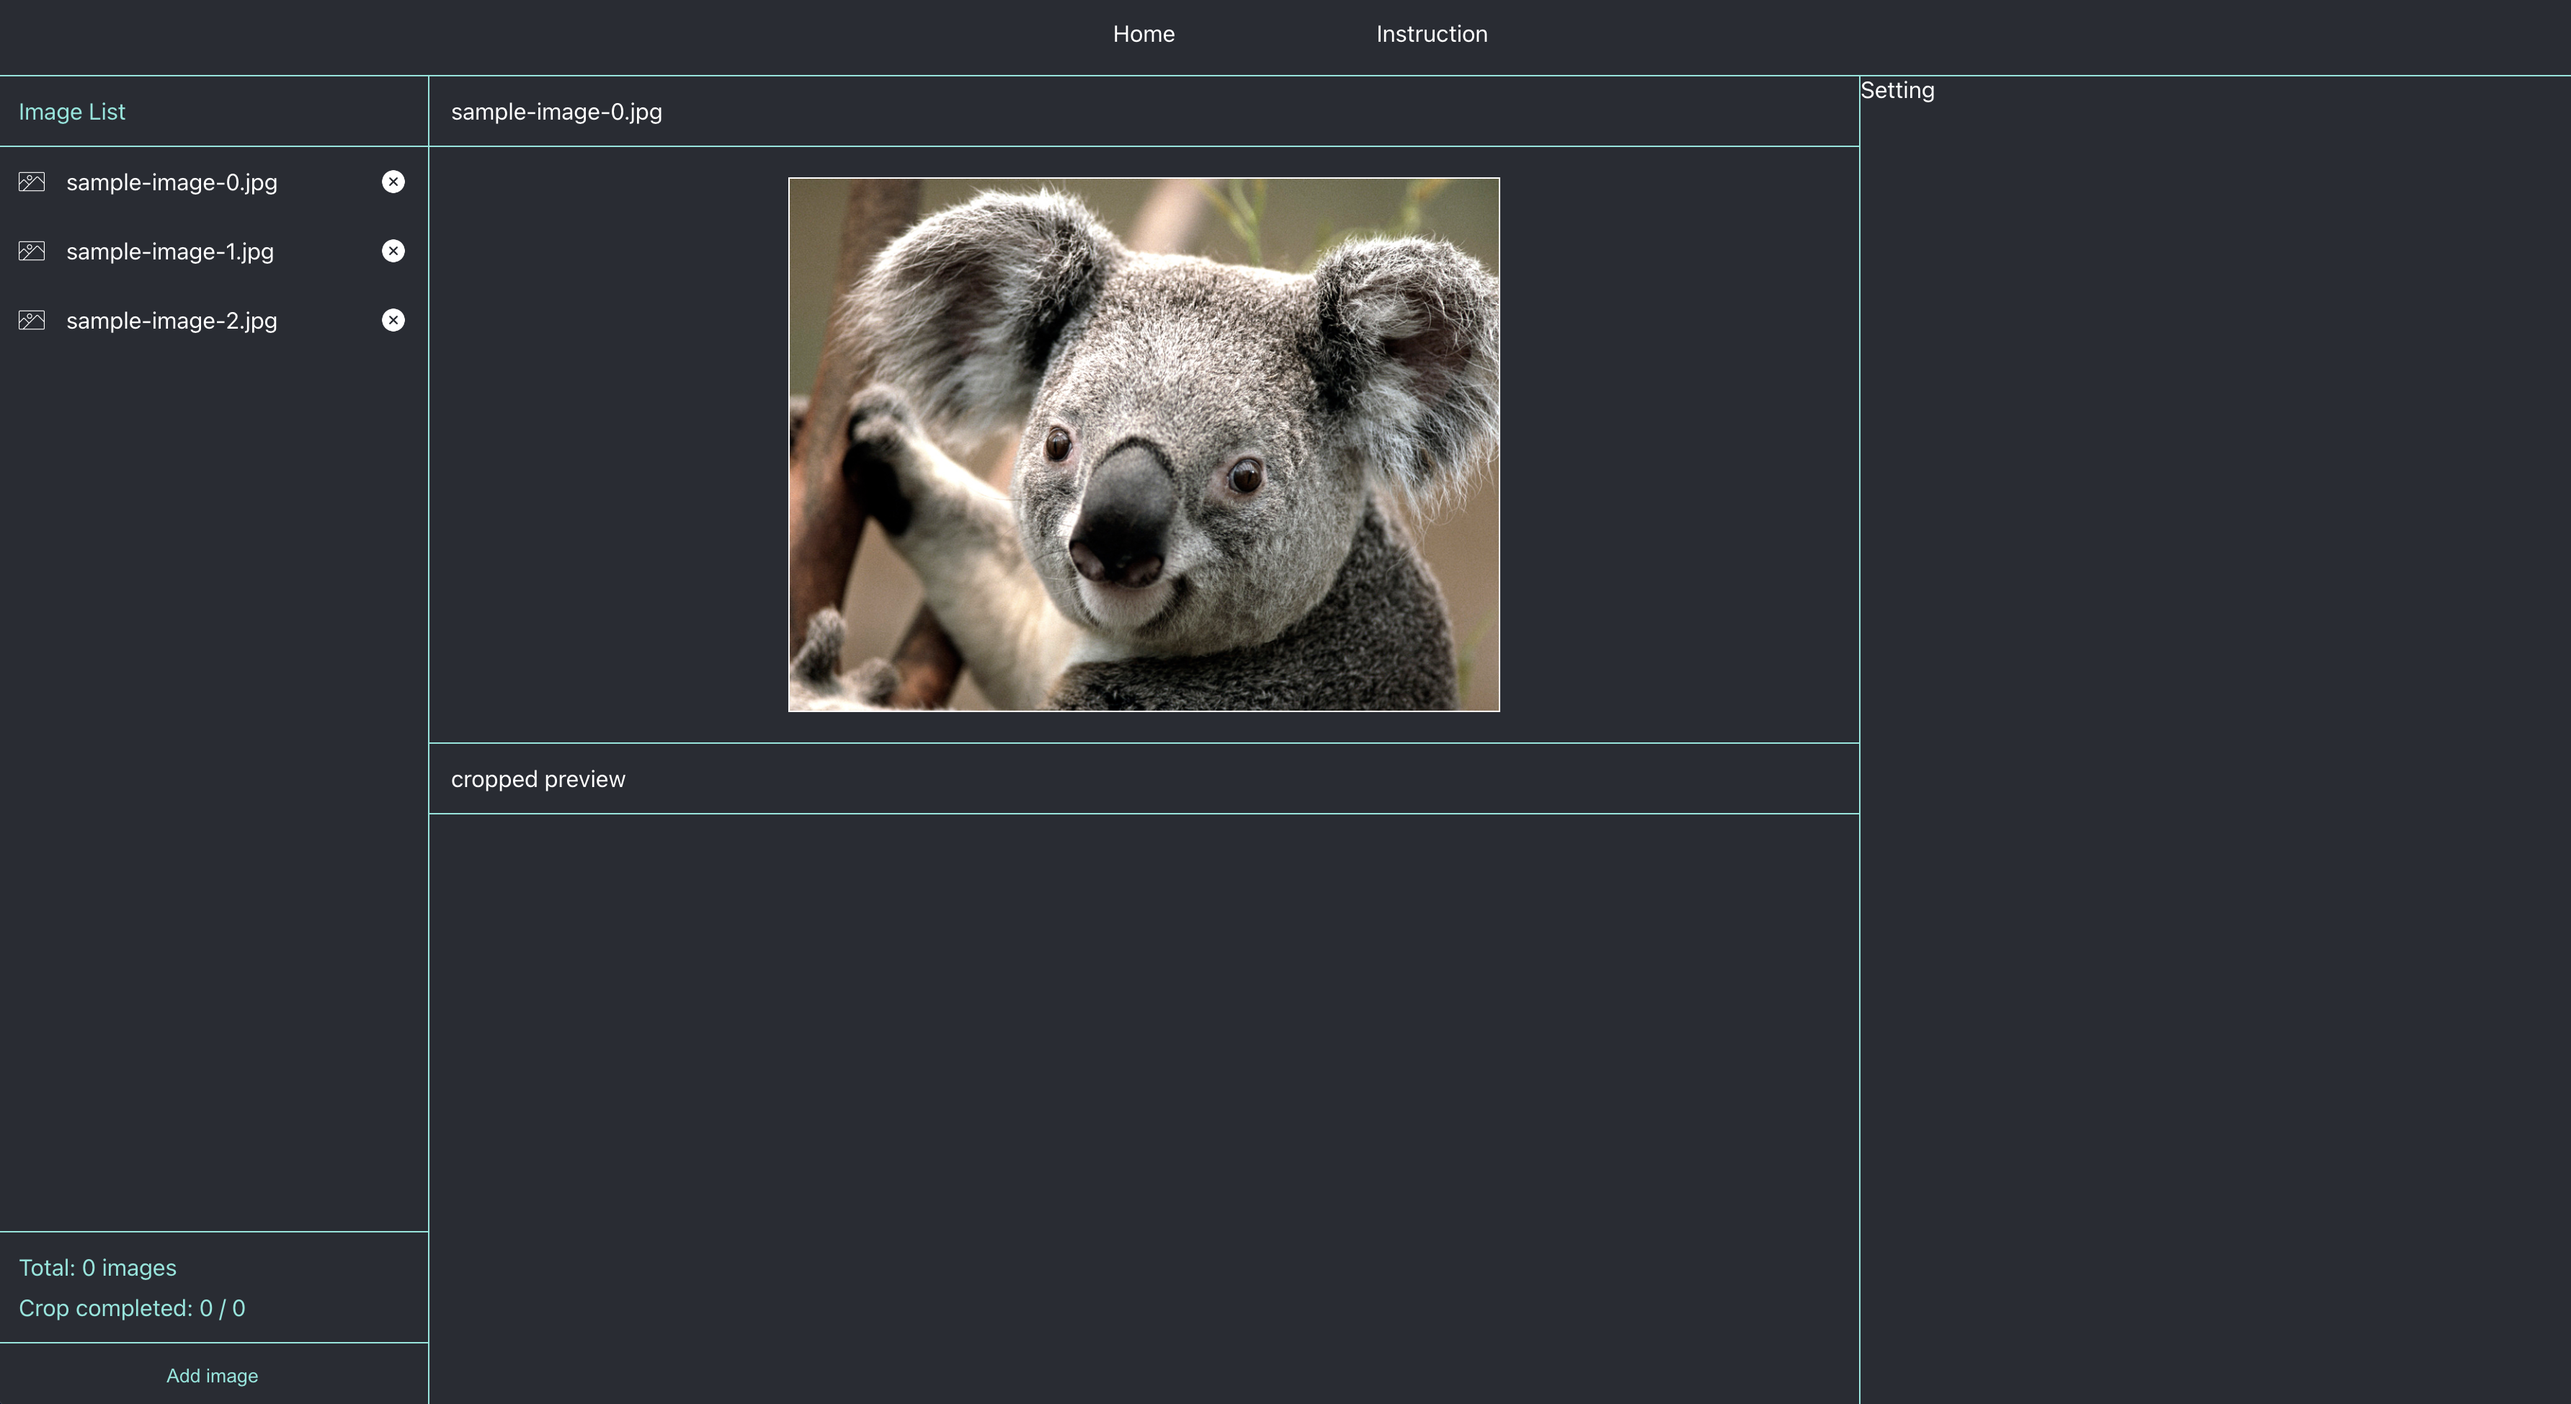
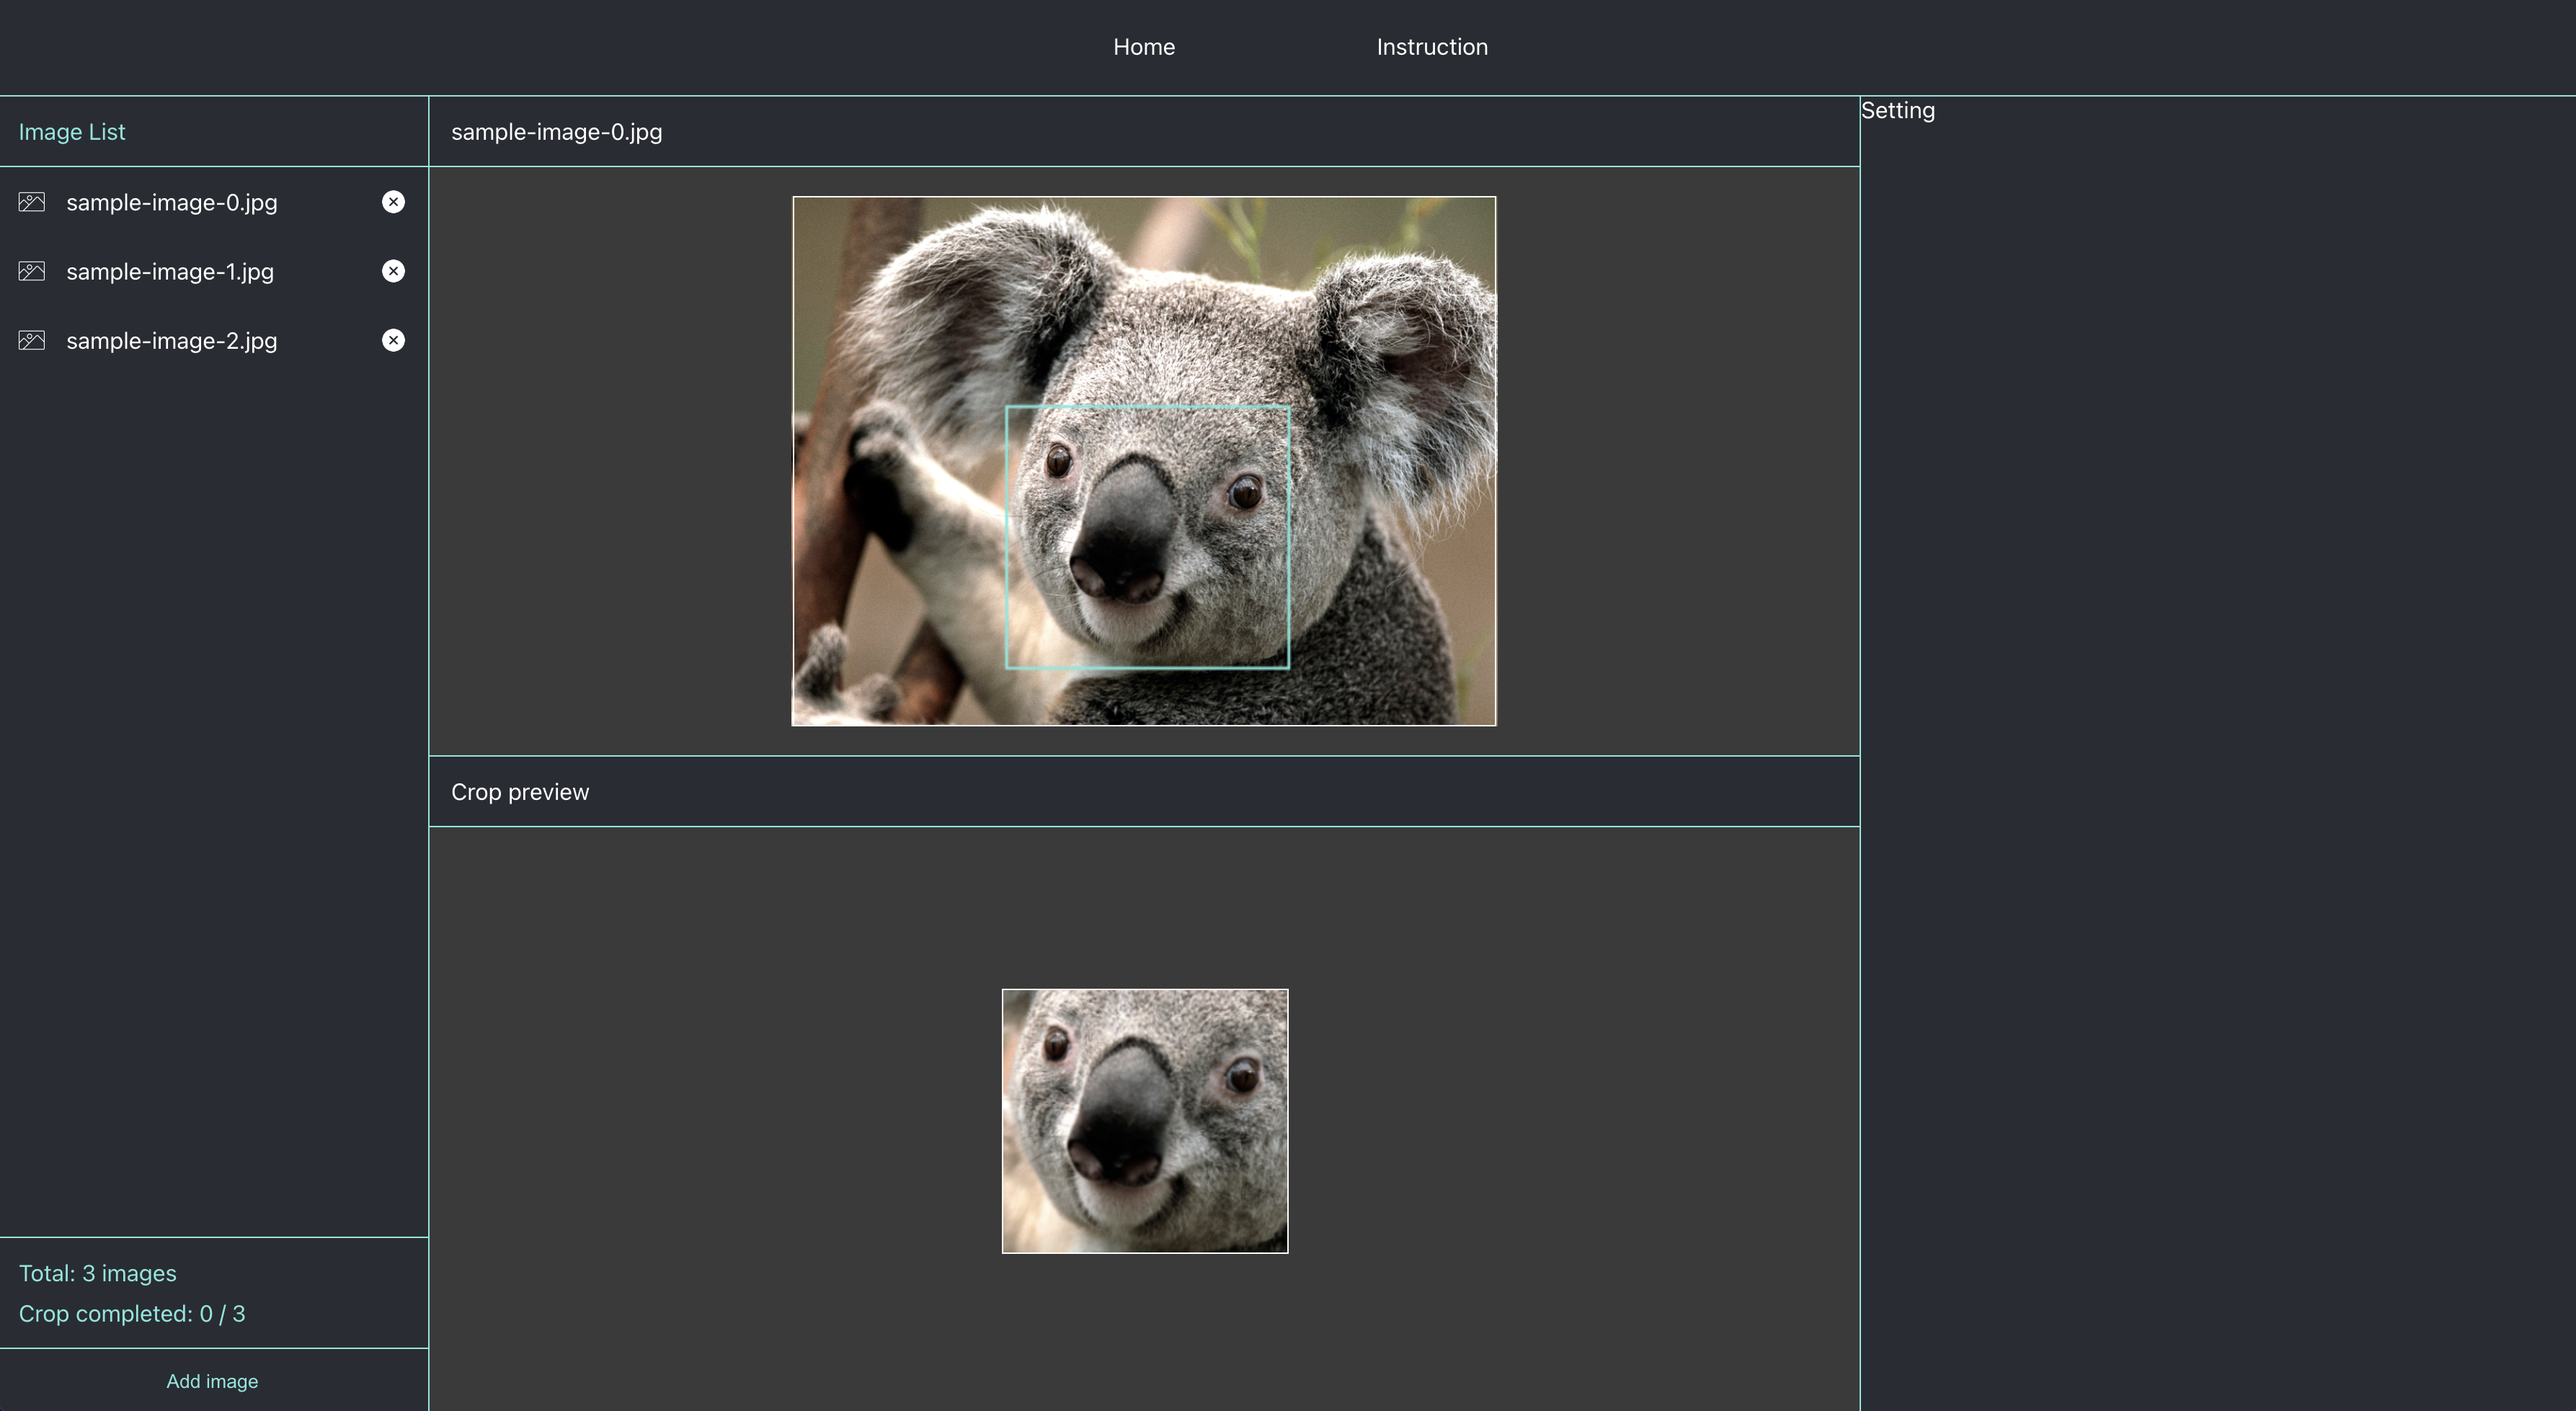
edit readme

diff --git a/src/components/ImageCropper/ImageCropper.scss b/src/components/ImageCropper/ImageCropper.scss
@@ -79,10 +79,10 @@
     justify-content: center;
     align-items: center;
     position: relative;
+    background-color: $dark-gray;
 
     #preview-canvas-element {
       position: absolute;
-      background-color: yellow;
       border: 1px solid white;
     }
   }

diff --git a/README.md b/README.md
@@ -10,14 +10,12 @@ crop image
 
 ### done
 
-set canvas size on img src change
+preview
 
 ### todo
 
 ##### cropper
 
-- draw rectangle on canvas
-- save rectangle coordinates
 - make cropped image with rect coordinates
 - save cropped to redux
 - show cropped on preview section
